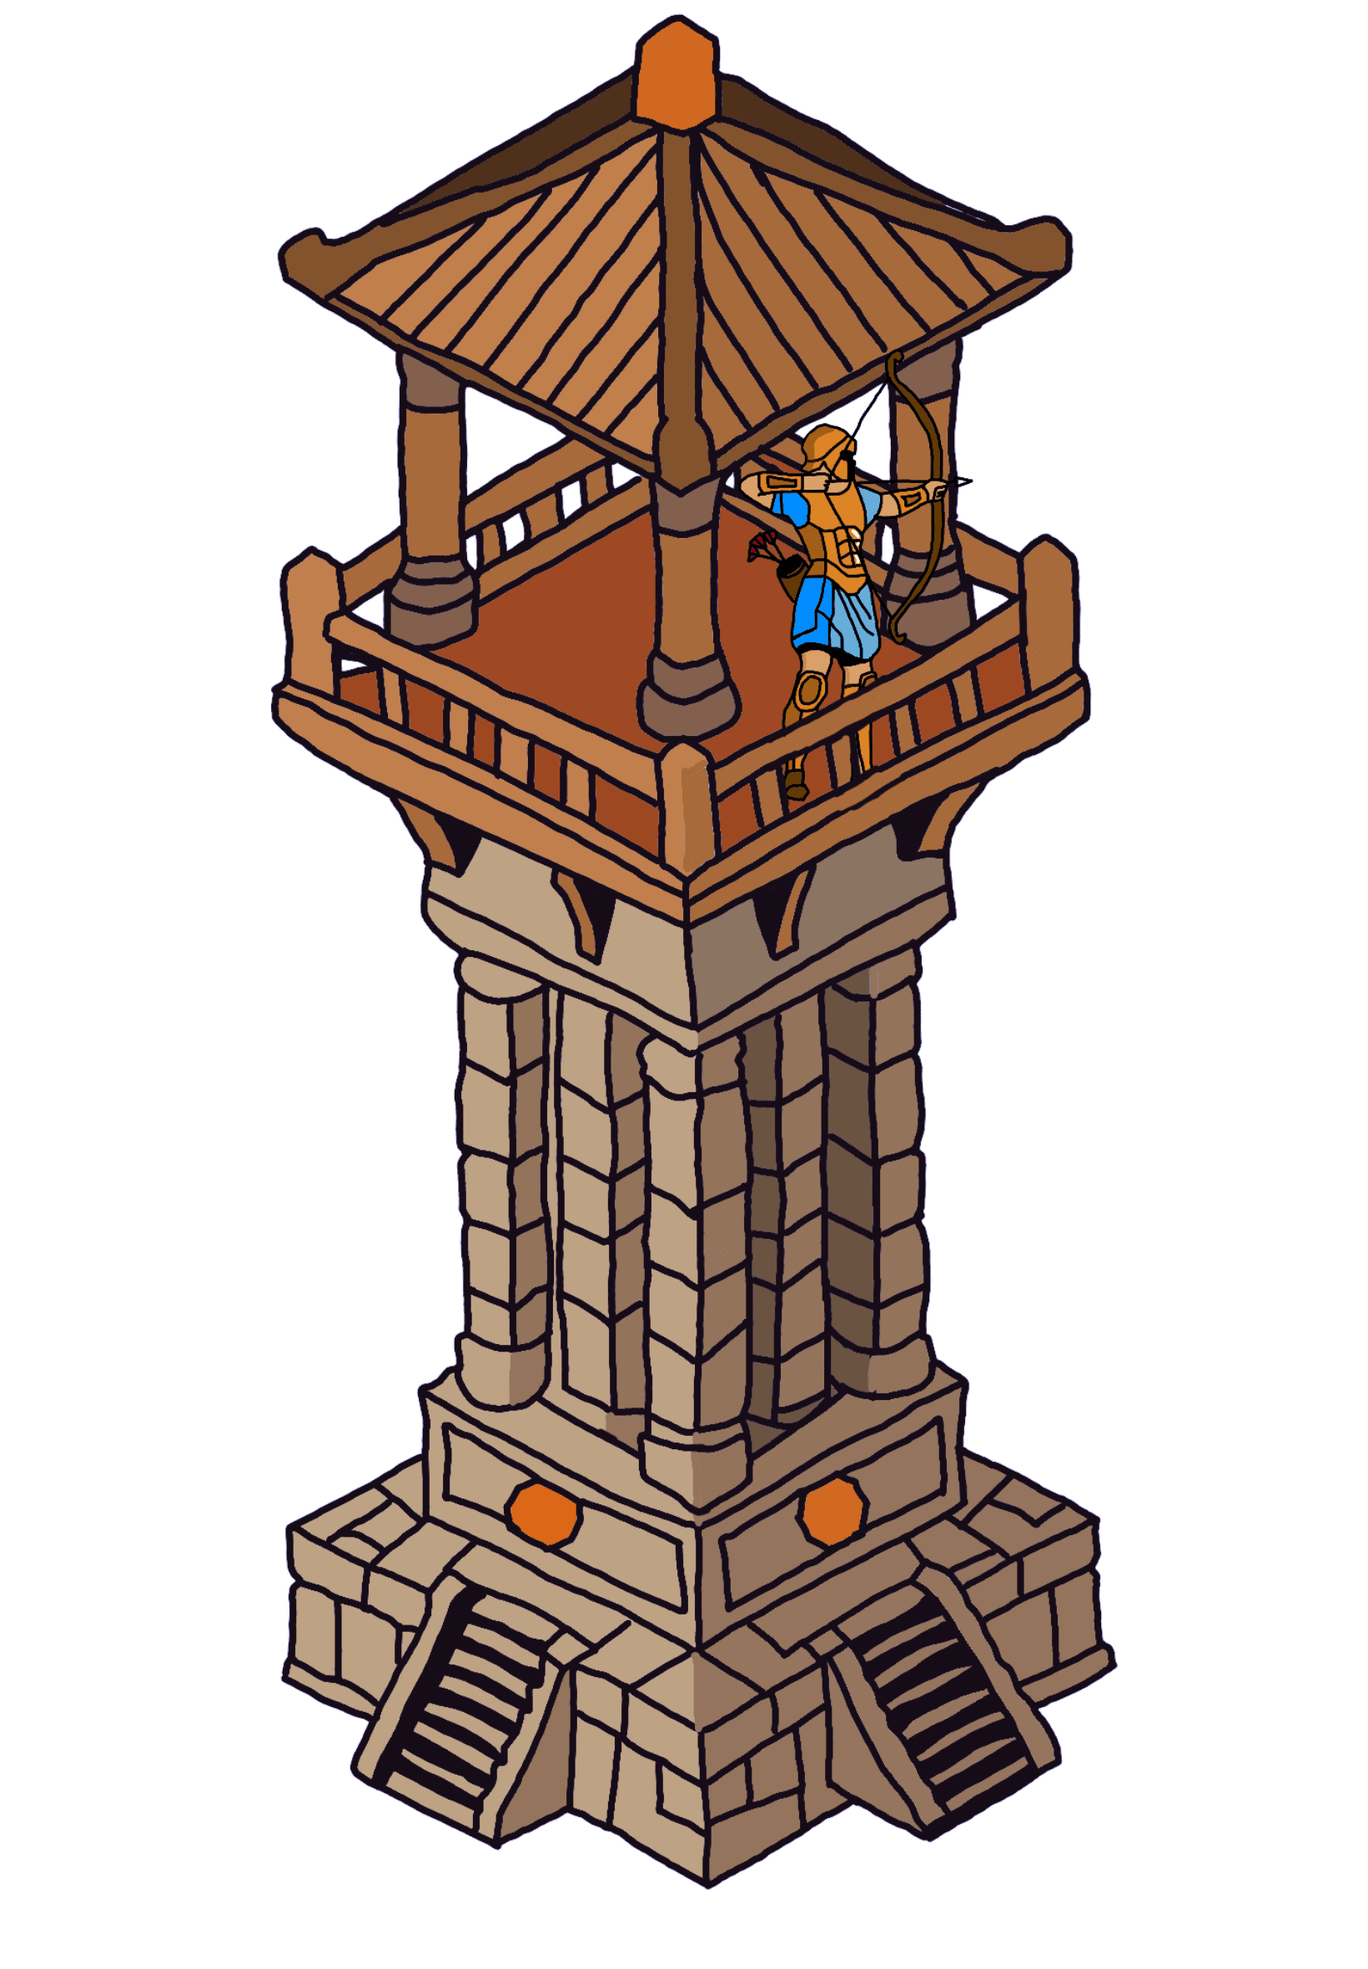
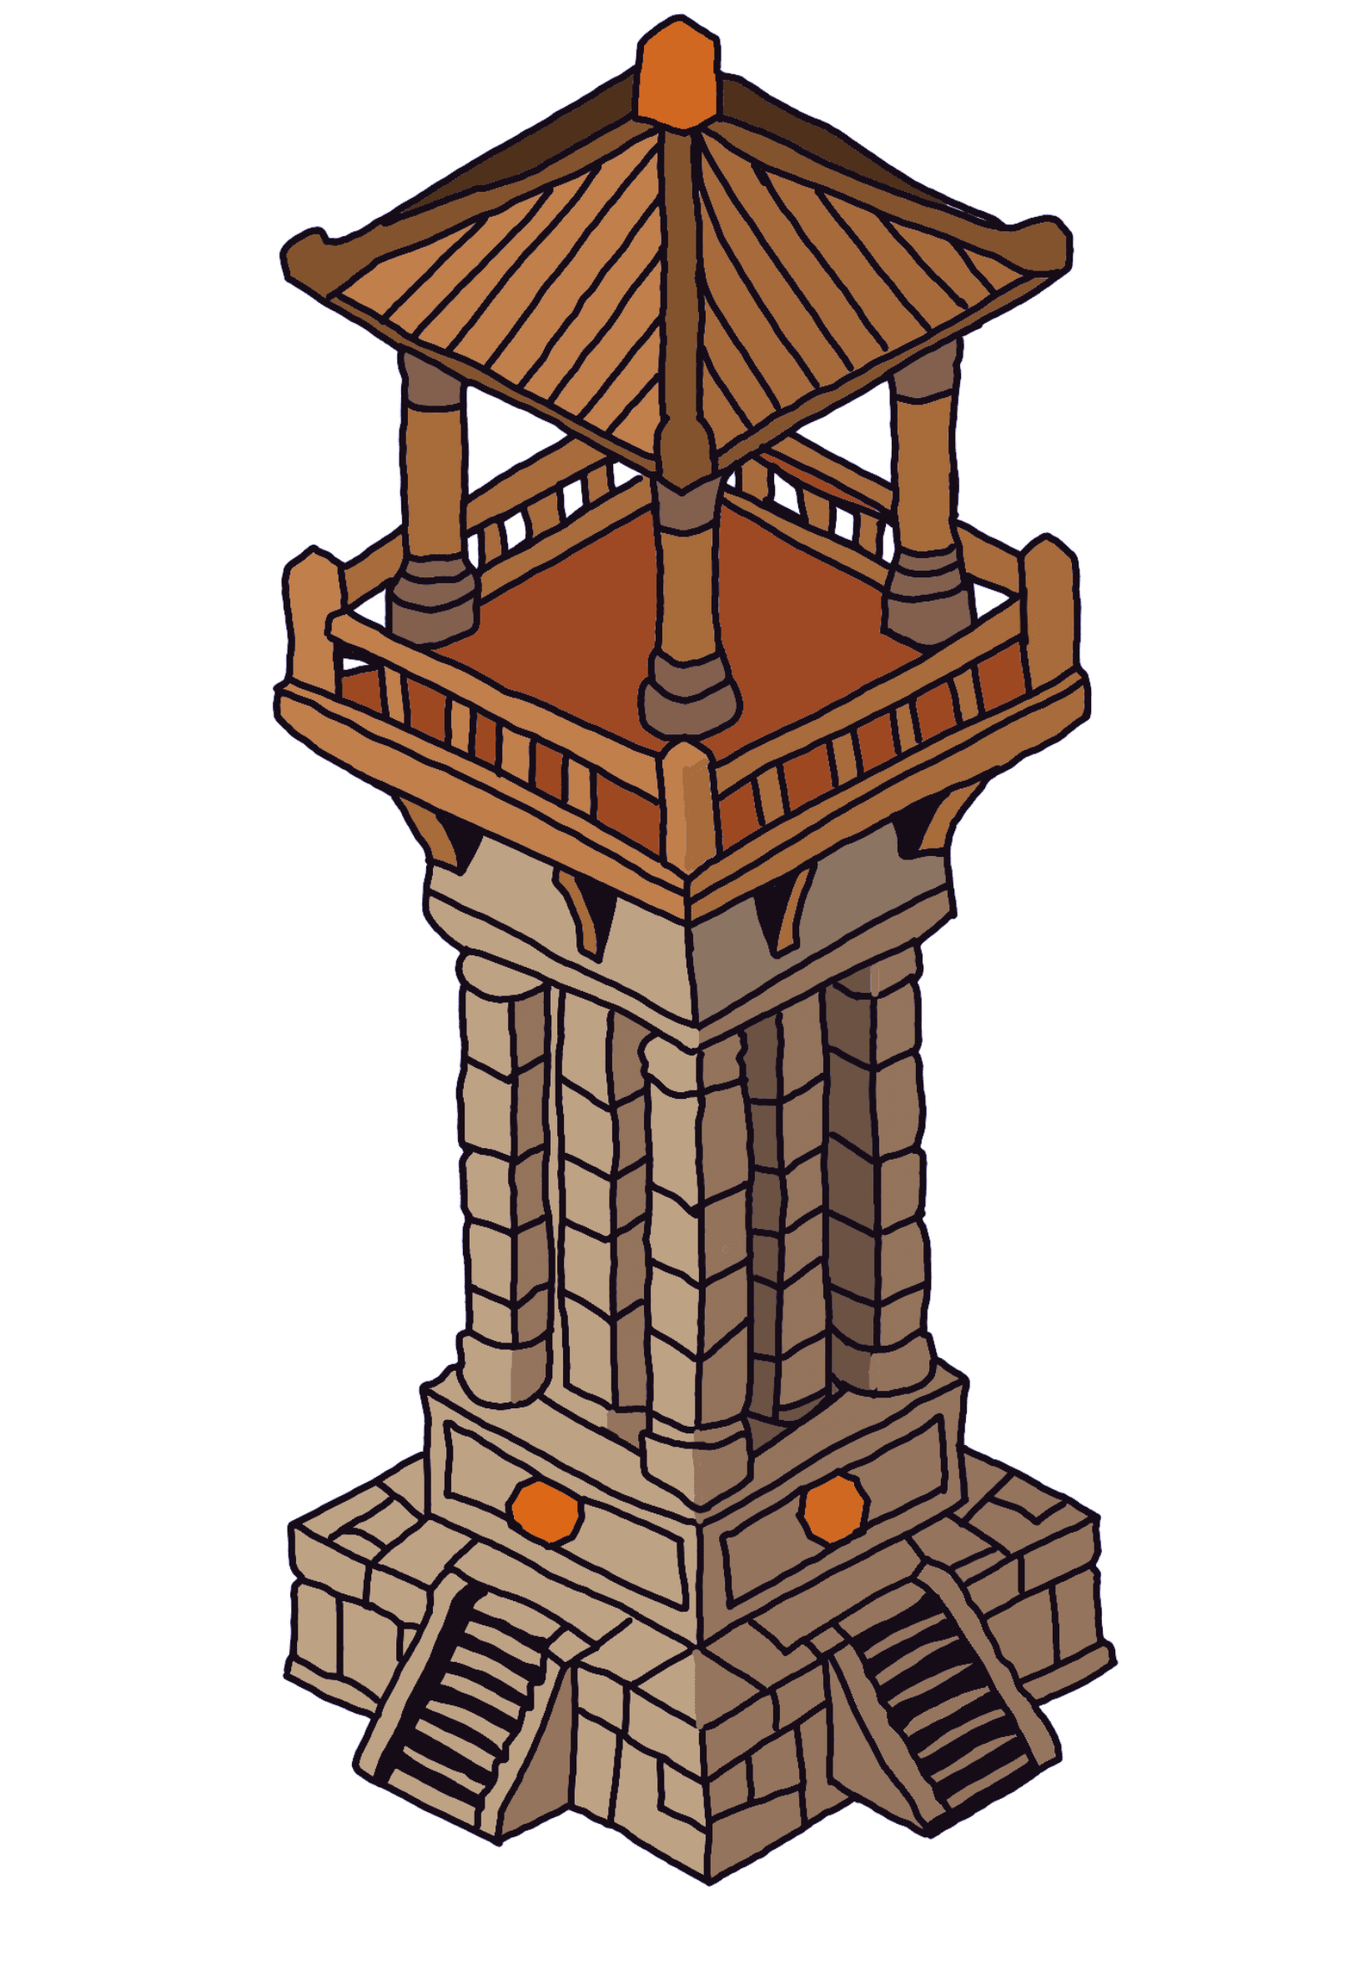
Tours d'archer

diff --git a/backend/classes/game.js b/backend/classes/game.js
@@ -9,7 +9,7 @@ const { player } = require('./player');
 const { visionDiff } = require('./visionDiff');
 const { hexagon } = require('./hexagon');
 const { turnAction, moveAction, newUnitAction, buildAction,neutralMoveAction,builderPickupAction,builderBuildAction} = require('./turnAction')
-const { hoplite,stratege,archer,messager,paysanne,building,hdv,bucheron,mineur,maison,forge,tour,champ,loup,pierris,entrepôt,chantier,builder,pecheur,discipleathneutre,discipleath,mur,mine,chevaldetroie,caravaneCommerce,bateauCommerce,cabane,port} = require('./unit')
+const { hoplite,stratege,archer,messager,paysanne,building,hdv,bucheron,mineur,maison,forge,tour,champ,loup,pierris,entrepôt,chantier,builder,pecheur,discipleathneutre,discipleath,mur,mine,chevaldetroie,caravaneCommerce,bateauCommerce,cabane,port,tourarcher} = require('./unit')
 const {buildings} = require('../gameDatas/buildingInfos')
 
 
@@ -314,7 +314,7 @@ class game {
 
             var unité = joueur.units[uni]
             visions[uni]=this.calculVision(unité)
-            if (unité.name=="Tour"){
+            if (unité.name=="Tour" || unité.name=="Tour d'archer"){
                 tours.push(uni)
                 }
             if (unité.name=="Stratege"){posStratège=uni}
@@ -335,7 +335,7 @@ class game {
 
             for (var z of tours){//Déterminer les chaînes de tours
                 for (var posTest of visions[z]){
-                    if (joueur.units[posTest.info.pos]!=undefined && comps[z]!=comps[posTest.info.pos] && posTest.board.name=="Tour"){
+                    if (joueur.units[posTest.info.pos]!=undefined && comps[z]!=comps[posTest.info.pos] && (posTest.board.name=="Tour d'archer"||posTest.board.name=="Tour")){
                         comps[posTest.info.pos]=comps[z]
                         for (var zz of Object.keys(comps)){
                             if (comps[zz]==comps[posTest.info.pos]){
@@ -760,7 +760,14 @@ class game {
         var dest = this.board[uni.objectif];
         if (dest==undefined || uni==undefined){return false}
         if (casesAdjacentes(uni.position,this.map.width,this.map.height).includes(uni.objectif)==false){return false}
+        if (dest.name=="Tour" && uni.name=="Archer"){
+            var newtour = new tourarcher(dest.position,this.players[dest.owner])
+            this.players[dest.owner][dest.position]=newtour
+            this.board[dest.position]=newtour
+            dest = newtour
+        }
         dest.addWorker(uni.position,this)
+        return true
     }
 
 
@@ -885,6 +892,7 @@ class game {
             this.board[uni].movementLeft = this.board[uni].movement
             if (this.board[uni].name=="Champ"){this.revenuChamp(this.board[uni])}
             if (this.board[uni].name=="Mine"){this.tourMine(this.board[uni])}
+            if (this.board[uni].name=="Tour d'archer"){this.tourTourArcher(this.board[uni])}
             if (this.board[uni].destination == this.board[uni].position) { this.board[uni].destination = undefined }
             this.board[uni].destination = this.board[uni].findGoal(this)      
             if (this.board[uni].destination != undefined) {//Reset les path 
@@ -927,7 +935,7 @@ class game {
                     if (uni!=undefined && uni.owner!="Système"){this.testDéposeRessources(uni)}
                     if (uni!=undefined && uni.owner!="Système" && uni.name=="Messager"){this.testMessager(uni)}
                     if (uni!=undefined && uni.owner!="Système" && uni.name=="Caravane de commerce" || uni.name=="Navire de commerce"){this.testCaravane(uni)}
-                    if (uni!=undefined && uni.owner!="Système" && (uni.name=="Paysanne"||uni.name=="Mineur"||uni.name=="Bûcheron")&&uni.objectif!=undefined){this.testEntre(uni)}
+                    if (uni!=undefined && uni.owner!="Système" && (uni.name=="Paysanne"||uni.name=="Mineur"||uni.name=="Bûcheron" ||uni.name=="Archer" || uni.name=="Frondeur")&&uni.objectif!=undefined){this.testEntre(uni)}
                      }
                     break;
 
@@ -1183,6 +1191,43 @@ tourMine(unite){
     }
 }
 
+tourTourArcher(unite){
+    if (unite.strategy=="prudence"){return false}
+    var cases = [unite.position]
+    var newCases = [unite.position]
+    for (let i=0;i<unite.vision;i++){
+         var ajouter = []
+         for (var z of newCases){
+            for (var c of casesAdjacentes(z,this.map.width,this.map.height)){
+                if (!cases.includes(c)){ajouter.push(c)}
+            }
+        if (!cases.includes(z)){cases.push(z)}
+         }
+         newCases=ajouter
+
+    }
+
+
+    for (var z of unite.workers){
+    for (var x of cases){
+        if (this.board[x]!=undefined && this.board[x].owner!=unite.owner){
+            var damage = Math.floor(z.attack/1.5)
+            damage -= this.board[x].defense
+            if (damage<0){damage=0}
+            this.board[x].hp-=damage
+            if (this.board[x].hp<=0){this.kill(this.board[x])}
+            this.actionsThisTurn.push({ "type": "combat", "départ": unite.position, "arrivée":x,"dégâts":"-"+damage})
+
+            break
+        }
+    }
+    }
+
+
+    
+}
+
+
 unbuild(pos,idJoueur,socket){//Détruit un bâtiment
     var pos = parseInt(pos)
     if (pos==undefined || idJoueur==undefined){return false}
@@ -1422,6 +1467,11 @@ getUnitesMine(position,idJoueur){
     return retour
 }
 
+getUnitesMine(position,idJoueur){
+    var tor = this.board[position]; if (tor==undefined || tor.owner!=idJoueur){return false}
+    if (tor.name!="Tour d'archer"){return false}
+    return (tor.getUnis())
+}
 
 
 getRevenuChamp(position,idJoueur){
@@ -1439,7 +1489,7 @@ canOrder(idJoueur,posDépart){//Prend un IDJOUEUR et une position et dit si le j
     var joueur = this.players[idJoueur]; if (joueur==undefined){return undefined}
     var comps = {}; var posStratège=undefined
     for (var z of Object.keys(joueur.units)){//Trouver les tours et le stratège
-        if (this.board[z].name=="Stratege" || this.board[z].name=="Tour"){
+        if (this.board[z].name=="Stratege" || this.board[z].name=="Tour" || this.board[z].name=="Tour d'archer"){
             comps[z] = z
             if (this.board[z].name=="Stratege"){posStratège=z}
         }
@@ -1523,7 +1573,7 @@ sortirChamp(unite,position,idJoueur,index){//A CONTINUER: ADAPTER POUR SORTIR L4
     if (unite==undefined || position==undefined||index==undefined){return false}
     var joueur = this.players[idJoueur];if (joueur==undefined){return false}
     var cham = this.board[position]
-    if (cham.name!="Champ"&&cham.name!="Mine"){return false}
+    if (cham.name!="Champ"&&cham.name!="Mine" && cham.name!="Tour d'archer"){return false}
     if (cham.workers==undefined){return false}
     if (index>=cham.workers.length || cham.workers[index].name!=unite){return false}
     
@@ -1534,6 +1584,12 @@ sortirChamp(unite,position,idJoueur,index){//A CONTINUER: ADAPTER POUR SORTIR L4
                 cham.workers.splice(index,1)
                 uni.objectif=undefined
                 uni.position=zz
+                if (cham.name=="Tour d'archer" && cham.workers.length<=0){
+                    var newtour = new tour(cham.position,this.players[cham.owner])
+                    this.players[cham.owner][position]=newtour
+                    this.board[cham.position]=newtour
+                }
+
                 return {"position":zz,"newUnit":uni.name}
             }
         }

diff --git a/backend/classes/unit.js b/backend/classes/unit.js
@@ -38,7 +38,7 @@ class unit {
             this.range = stats[this.name].range
             this.vision = stats[this.name].vision
             this.fieldRevenu=stats[this.name].fieldRevenu
-            
+            this.maxworkers=stats[this.name].maxworkers
             
             this.hp = this.maxhp
             this.movementLeft=this.movement
@@ -105,6 +105,23 @@ class archer extends unit{
         this.strategy = "agression"
 
     }
+
+    findGoal(partie){
+        if (this.destination!=undefined){return this.destination}
+        if (this.objectif!=undefined){
+            if (partie.board[this.objectif]==undefined ||( partie.board[this.objectif].name!="Tour" &&  partie.board[this.objectif].name!="Tour d'archer" ) || (partie.board[this.objectif].name=="Tour d'archer" && partie.board[this.objectif].workers.length>=partie.board[this.objectif].maxworkers)){this.objectif=undefined}
+            else{
+                let meilleureCase = undefined
+                for (var z of casesAdjacentes(this.objectif,partie.map.width,partie.map.height)){
+                    if (partie.board[z]==undefined && (partie.pathfindToDestination(this.position,z,this.owner)!=false) && this.canGo(partie.map.terrain[z]) && (meilleureCase==undefined || (distance(this.position,z,partie.map.height)<distance(this.position,meilleureCase,partie.map.height)))){
+                        meilleureCase=z
+                        }
+                }
+                if (meilleureCase!=undefined){return meilleureCase}
+            }
+        }
+    }
+
     getForgeEvos(){
         return this.origin
     }
@@ -844,7 +861,28 @@ class tourarcher extends building{
     constructor(position,player){
         super(50,0,10,0,"Tour d'archer",position,player,5,0)
         this.workers = []
+        this.strategy="agression"
     }
+
+    addWorker(pos,partie){//Ajoute une unité pour travailler dans ce champ
+        if (this.workers.length>=this.maxworkers){return false}
+        var uni = partie.board[pos]
+        if (uni==undefined || ((uni.name!="Archer") && uni.name!="Frondeur")){return false}
+        this.workers.push(uni)
+        delete partie.players[uni.owner].units[pos]
+        delete partie.board[pos]
+        return true
+    }
+
+
+    getUnis(){
+        var ret = []
+        for (var z of this.workers){ret.push(z.name)}
+        return {"couleur":this.couleur,"unites":ret}
+        
+    }
+
+
 }
 
 class forge extends building{
@@ -973,7 +1011,30 @@ class creatureNeutre{
         this.vision=vision
         this.destination = undefined
         this.path = undefined
-        this.type="unit"    }
+        this.type="unit"    
+    
+    
+        if (stats[this.name]!=undefined){
+            this.maxhp = stats[this.name].maxhp
+            this.attack = stats[this.name].attack
+            this.defense = stats[this.name].defense
+            this.initiative = stats[this.name].initiative
+            this.movement = stats[this.name].movement
+            this.range = stats[this.name].range
+            this.vision = stats[this.name].vision
+            this.fieldRevenu=stats[this.name].fieldRevenu
+            this.maxworkers=stats[this.name].maxworkers
+            
+            this.hp = this.maxhp
+            this.movementLeft=this.movement
+        }
+    
+    
+    
+    
+    
+    
+    }
 
         canGo(dest){//Prend un terrain et renvoie true ou false selon si l'unité peut s'y rendre. Par défaut, l'eau est interdite mais pour les bâteaux ce sera l'inverse
             if (dest=="X" || dest=="eau"){return false}

diff --git a/frontend/client.js b/frontend/client.js
@@ -529,10 +529,12 @@ document.addEventListener("DOMContentLoaded", function () {
         const vueBatiments = document.getElementById('vueBatiments');
         const damierjeu = document.getElementById('damierjeu');
         const vueMine = document.getElementById("vueMine");
+        const vueTour = document.getElementById("vueTour");
 
         rendreDeplacable(vueBatiments, damierjeu);
         rendreDeplacable(statsUnite, damierjeu);
         rendreDeplacable(vueMine, damierjeu);
+        rendreDeplacable(vueTour, damierjeu);
 
         // document.getElementById("recolteButton").addEventListener("click", function() {
         //     attaqueAnim(185, 215, "-9");
@@ -757,7 +759,7 @@ document.addEventListener("DOMContentLoaded", function () {
 
 
                 }
-                else if ((data.board[event.target.id.supprimerPrefixId("uni")].name == "Champ" || (data.board[event.target.id.supprimerPrefixId("uni")].name == "Mine")) && uniteSelectionnee) {
+                else if ((data.board[event.target.id.supprimerPrefixId("uni")].name == "Champ" || (data.board[event.target.id.supprimerPrefixId("uni")].name == "Mine")||data.board[event.target.id.supprimerPrefixId("uni")].name == "Tour"||data.board[event.target.id.supprimerPrefixId("uni")].name == "Tour d'archer") && uniteSelectionnee) {
 
                     hexagoneSelectionnee = event.target.id.supprimerPrefixId("uni");
                     socket.emit("mouvement", { départ: uniteSelectionnee, arrivée: hexagoneSelectionnee });
@@ -789,6 +791,12 @@ document.addEventListener("DOMContentLoaded", function () {
 
                     let vueMine = d3.select("#vueMine");
                     vueMine.style("display", (vueMine.style("display") == "none" ? "block" : "none"))
+                        .attr("class", event.target.id.supprimerPrefixId("uni"));
+                }
+                else if (data.board[event.target.id.supprimerPrefixId("uni")].name == "Tour d'archer" && !uniteSelectionnee) {
+                    socket.emit("demandeUnitesTour", event.target.id.supprimerPrefixId("uni"));
+                    let vueTour = d3.select("#vueTour");
+                    vueTour.style("display", (vueTour.style("display") == "none" ? "block" : "none"))
                         .attr("class", event.target.id.supprimerPrefixId("uni"));
                 }
                 else if (uniteSelectionnee && uniteSelectionnee == event.target.id.supprimerPrefixId("uni")) {
@@ -1007,6 +1015,27 @@ document.addEventListener("DOMContentLoaded", function () {
         });
 
     });
+
+
+    socket.on("demandeUnitesTour", data => {
+        let vueMine = d3.select("#vueTour");
+        vueMine.selectAll("*:not(.hautvue):not(#boutonTour):not(#txthautvue):not(#titreVueTour):not(#txthauvue)").remove();
+
+        let titreMine = d3.select("#titreVueTour");
+
+        data.unites.forEach((uni, index) => {
+            vueMine.append("img").attr("src", "/img/personnages/"+data.couleur+"/archer.png")
+                .attr("width", "125").attr("height", "150")
+                .on("click", () => {
+                    socket.emit("sortirChamp", { unite: "Archer", position: vueMine.attr("class"), index: index });
+                });
+            vueMine.append("p").text(uni.minerai);
+        });
+
+    });
+
+
+
 
     socket.on("evolution", data => {
         let bbox = document.getElementById("h" + data.position).getBBox();

diff --git a/backend/App.js b/backend/App.js
@@ -235,19 +235,24 @@ io.on('connection', (socket) => {
     if (check==true){//Check la distance
 
       //Cas où on met quelqu'un dans un champ ou une mine
-      if (partie.board[arrivée]!=undefined && (partie.board[arrivée].name=="Champ" || partie.board[arrivée].name=="Mine") && partie.board[arrivée].owner==idJoueur){
-          if (casesAdjacentes(départ,partie.map.width,partie.map.height).includes(arrivée)){
-          if (partie.board[arrivée].addWorker(départ,partie)){
+   
+
+
+      if (partie.board[arrivée]!=undefined && (partie.board[arrivée].name=="Champ" || partie.board[arrivée].name=="Mine" ||  partie.board[arrivée].name=="Tour" ||  partie.board[arrivée].name=="Tour d'archer") && partie.board[arrivée].owner==idJoueur){
+        if (["Mineur","Paysanne","Bûcheron","Archer","Frondeur"].includes(partie.board[départ].name)){
+          partie.board[départ].objectif=arrivée
+          if (partie.testEntre(partie.board[départ])){
             socket.emit("désafficherUnité",départ)
             return
             }
-          }
+          
           else{
-            if (["Mineur","Paysanne","Bûcheron"].includes(partie.board[départ].name) && partie.board[arrivée].workers.length<partie.board[arrivée].maxworkers){partie.board[départ].objectif=arrivée;}
+            if (partie.board[arrivée].name=="Tour" ||partie.board[arrivée].workers.length<partie.board[arrivée].maxworkers){partie.board[départ].objectif=arrivée;}
 
             return
           }
         }
+      }
               //Cas de changement de la base d'une unité
       if (partie.board[arrivée]!=undefined && (partie.board[arrivée].name=="Hôtel de ville" || partie.board[arrivée].name=="Entrepôt") && partie.board[arrivée].owner==idJoueur){
         partie.board[départ].base=arrivée
@@ -451,6 +456,30 @@ io.on('connection', (socket) => {
       if (retour != undefined && retour != false){socket.emit("demandeUnitesMine",retour)}
 
     })
+
+    socket.on("demandeUnitesTour",data=>{
+      var partie = parties[socket.idPartie]
+      var idJoueur = socket.idJoueur
+      if (data==undefined || partie==undefined || idJoueur==undefined){return}
+
+      var retour = partie.getUnitesMine(data,idJoueur)
+      if (retour != undefined && retour != false){socket.emit("demandeUnitesTour",retour)}
+
+    })
+
+
+    socket.on("sortirTour",data=>{
+      var partie = parties[socket.idPartie]
+      var idJoueur = socket.idJoueur
+      if (data==undefined || partie==undefined || idJoueur==undefined){return}
+      var check = partie.sortirTour(data.unite,data.position,idJoueur,data.index)
+      if (check!=false){
+        socket.emit("evolution",check)
+        return
+      }
+    })
+    
+
 
     socket.on("sortirChamp",data=>{
       var partie = parties[socket.idPartie]

diff --git a/frontend/index.html b/frontend/index.html
@@ -264,6 +264,15 @@
                 <div id="titreVueMine"></div>
 
             </div>
+            <div id="vueTour">
+                <div class="hautvue">
+                    <p id="txthautvue"> Vue de la tour </p>
+                    <button id="boutonTour" class="buttonblack"
+                        onclick="document.getElementById('vueTour').style.display = (document.getElementById('vueTour').style.display == 'none' ? 'block' : 'none');">Quitter</button>
+                </div>
+                <div id="titreVueTour"></div>
+
+            </div>
         </div>
         <div id="vueDialogue"></div>
 

diff --git a/frontend/style.css b/frontend/style.css
@@ -214,6 +214,7 @@ body {
 #vueForge,
 #vueChamp,
 #vueMine,
+#vueTour,
 #vueNotificationMessage {
     color: wheat;
     display: none;
